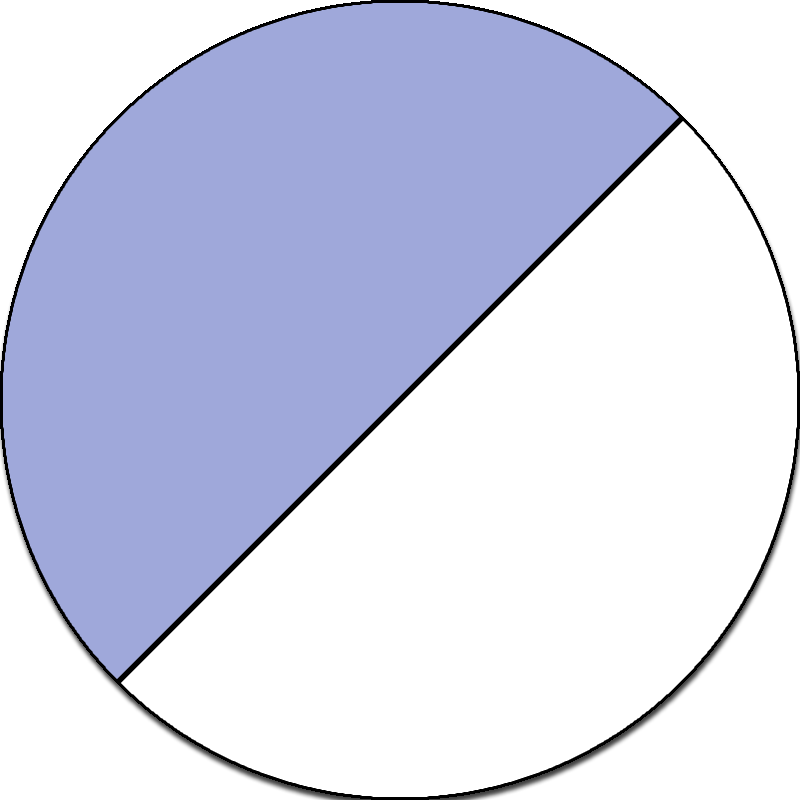
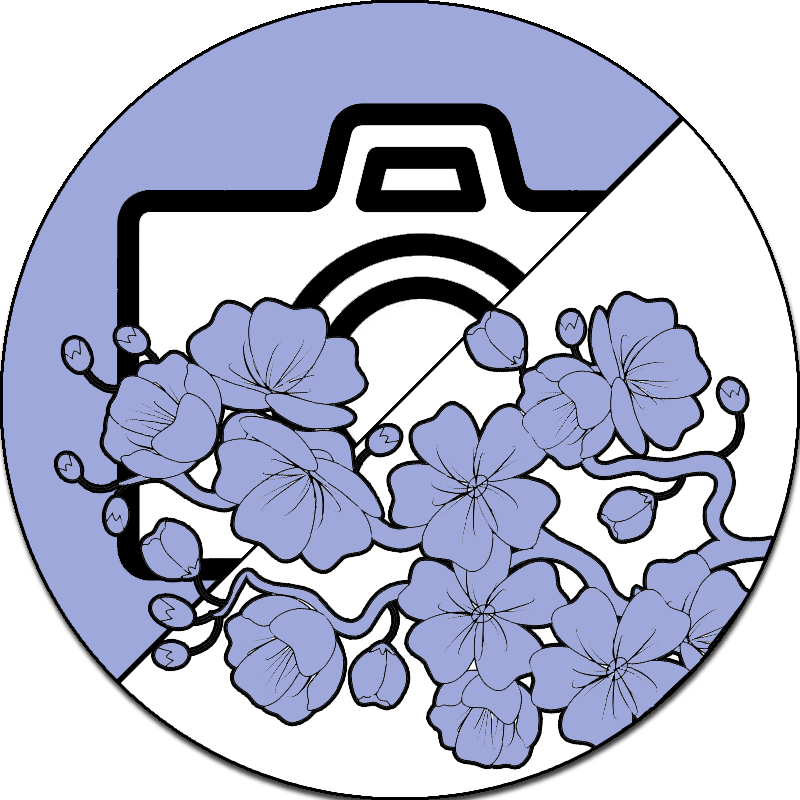
Added interests images; Shadow on navbar

diff --git a/src/views/About.vue b/src/views/About.vue
@@ -1,6 +1,6 @@
 <template>
     <v-container fluid fill-height class="about indigo lighten-3">
-        <Navbar :colorProp="theme.color" :imageProp="theme.image"/>  
+        <Navbar :colorProp="theme.color" :imageProp="theme.image"/>
         <v-container justify-center > 
             <v-layout row wrap>
                 <v-flex xs12>
@@ -97,7 +97,7 @@
                                         <v-flex xs3 class="pl-5 pb-3 mr-5 subheading font-weight-light white--text">
                                             {{ school.date }}
                                             <a v-bind:href="school.link" target="blank">
-                                                <v-img :src="require('@/assets/school/' + school.logo + '.png')" contain height="300px" />
+                                                <v-img :src="require('@/assets/school/' + school.logo + '.png')" contain max-height="175px" />
                                             </a>
                                         </v-flex>
                                         <v-flex xs7 class="pb-3 subheading font-weight-light white--text">{{ school.info }}</v-flex>
@@ -134,7 +134,7 @@
                                         <v-flex xs3 class="pl-5 pb-3 mr-5 subheading font-weight-light white--text">
                                             {{ work.date }}
                                             <a v-bind:href="work.link" target="blank">
-                                                <v-img class="mt-5" :src="require('@/assets/work/' + work.logo + '.png')" contain height="200px" />
+                                                <v-img class="mt-5" :src="require('@/assets/work/' + work.logo + '.png')" contain max-height="125px" />
                                             </a>
                                         </v-flex>
                                         <v-flex xs7 class="pb-3 subheading font-weight-light white--text">{{ work.info }}</v-flex>

diff --git a/src/views/Home.vue b/src/views/Home.vue
@@ -1,6 +1,5 @@
 <!-- 
 TODO:
-New about/background layout
 Add some kind of backround animation, maybe panets/stars/comets or something more vaporwave?
 redo home page layout
 Add Headway info
@@ -106,7 +105,7 @@ export default {
                 { image: 'comingsoon.jpg', title: 'Game', button: 'Coming Soon', route: 'game' }
             ],
             parallaxes3: [
-                { image: 'melee.png', title: 'Melee Tournament Tracker', button: 'Coming Soon', route: 'melee' }
+                { image: 'comingsoon.jpg', title: 'Melee Tournament Tracker', button: 'Coming Soon', route: 'melee' }
             ]
         }
     }

diff --git a/src/components/Navbar.vue b/src/components/Navbar.vue
@@ -1,6 +1,6 @@
 <template>
     <nav>
-        <v-toolbar flat dark app>
+        <v-toolbar dark app>
             <v-toolbar-side-icon exact route :to="'/'">
                 <v-img :src="require('../assets/logos/' + imageProp)" />
             </v-toolbar-side-icon>
